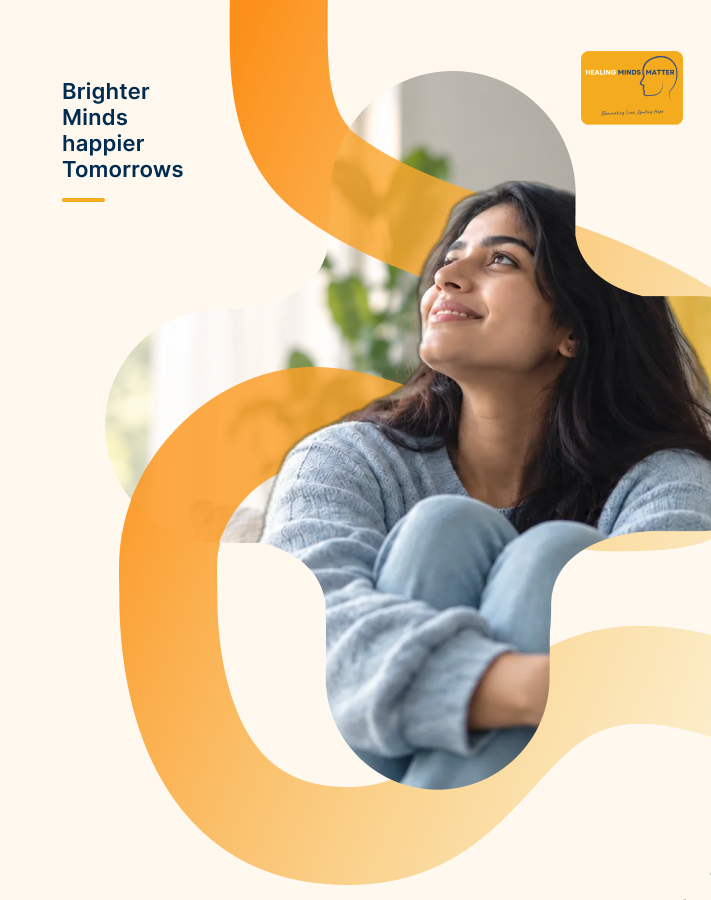
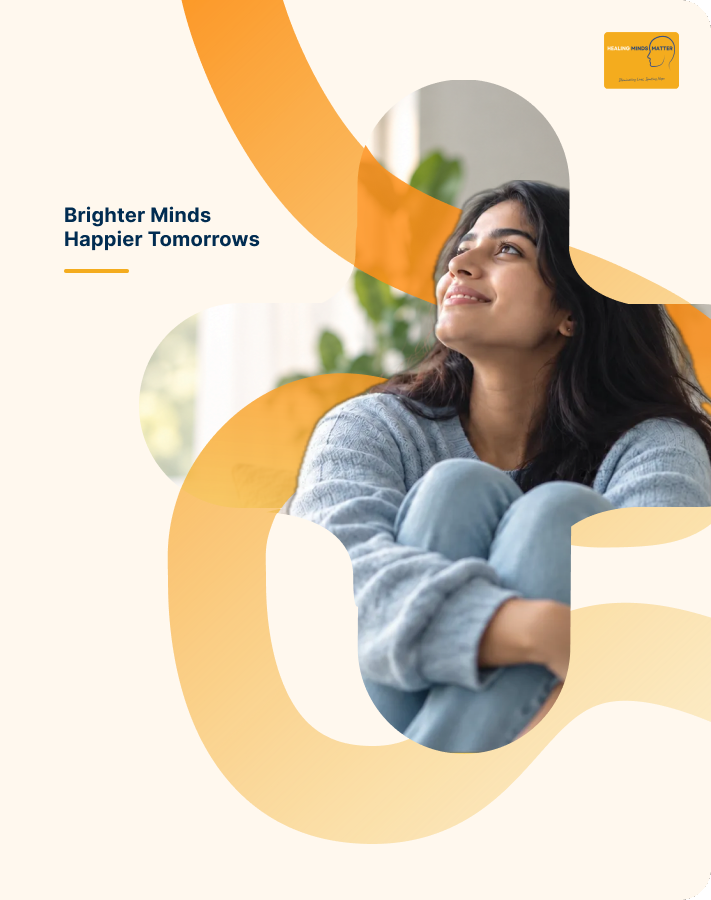
feat(auth): update login page design and improve responsiveness; validate club_id on gatekeeper creation

diff --git a/app/(auth)/login/login-form.tsx b/app/(auth)/login/login-form.tsx
@@ -1,12 +1,13 @@
 'use client'
 
-import { useActionState } from 'react'
+import { useActionState, useState } from 'react'
 import { useSearchParams } from 'next/navigation'
 import Link from 'next/link'
 import { loginAction } from '@/actions/auth'
 
 export function LoginForm() {
   const [state, formAction, isPending] = useActionState(loginAction, null)
+  const [showPassword, setShowPassword] = useState(false)
   const searchParams = useSearchParams()
   const resetSuccess = searchParams.get('reset') === 'success'
   const errorParam = searchParams.get('error')
@@ -20,11 +21,11 @@ export function LoginForm() {
 
   return (
     <div className="w-full font-[family-name:var(--font-inter)]">
-      <div className="flex flex-col gap-2 sm:gap-3">
-        <h1 className="text-[28px] font-extrabold leading-none tracking-[0.28px] text-[#012C51] sm:text-[32px] sm:tracking-[0.32px] lg:text-[38px] lg:tracking-[0.38px]">
+      <div className="flex flex-col gap-[7px]">
+        <h1 className="text-[28px] font-black leading-none tracking-[0.28px] text-[#012C51] sm:text-[34px] sm:tracking-[0.34px]">
           Sign in
         </h1>
-        <p className="text-[15px] leading-[1.4] tracking-[0.15px] text-[#67707F] sm:text-[17px] sm:tracking-[0.17px] lg:text-[20px] lg:leading-[1.56] lg:tracking-[0.2px]">
+        <p className="text-[15px] leading-[1.56] tracking-[0.15px] text-[#67707F] sm:text-[18px] sm:tracking-[0.18px]">
           For Super Admins and Champions.
         </p>
       </div>
@@ -54,71 +55,86 @@ export function LoginForm() {
         </div>
       )}
 
-      <form action={formAction} className="mt-6 flex flex-col gap-4 sm:mt-8 sm:gap-5 lg:mt-12 lg:gap-6">
-        <div className="flex flex-col gap-2">
-          <label htmlFor="email" className="text-[16px] tracking-[0.16px] text-[#0C1421]">
-            Email
-          </label>
-          <input
-            id="email"
-            name="email"
-            type="email"
-            autoComplete="email"
-            required
-            placeholder="you@healingmindsmatter.org"
-            className="h-12 w-full rounded-lg border border-[#D4D7E3] bg-[#F7FBFF] px-4 text-[16px] tracking-[0.16px] text-[#0C1421] outline-none transition placeholder:text-[#8897AD] focus:border-[#F4AC1E] focus:ring-2 focus:ring-[#F4AC1E]/20"
-          />
-        </div>
-
-        <div className="flex flex-col gap-2">
-          <label htmlFor="password" className="text-[16px] tracking-[0.16px] text-[#0C1421]">
-            Password
-          </label>
-          <input
-            id="password"
-            name="password"
-            type="password"
-            autoComplete="current-password"
-            required
-            placeholder="At least 8 characters"
-            className="h-12 w-full rounded-lg border border-[#D4D7E3] bg-[#F7FBFF] px-4 text-[16px] tracking-[0.16px] text-[#0C1421] outline-none transition placeholder:text-[#8897AD] focus:border-[#F4AC1E] focus:ring-2 focus:ring-[#F4AC1E]/20"
-          />
-        </div>
-
-        <div className="flex items-center justify-between">
-          <label className="inline-flex cursor-pointer items-center gap-[7px]">
-            <span className="relative inline-block size-[22px] shrink-0">
+      <form action={formAction} className="mt-8 flex flex-col gap-[60px] sm:mt-10">
+        <div className="flex flex-col gap-[9px]">
+          <div className="flex flex-col gap-[24px]">
+            <div className="flex flex-col gap-2">
+              <label htmlFor="email" className="text-[14px] tracking-[0.14px] text-[#0C1421]">
+                Email
+              </label>
               <input
-                type="checkbox"
-                name="keep_signed_in"
-                className="peer absolute inset-0 size-full cursor-pointer opacity-0"
+                id="email"
+                name="email"
+                type="email"
+                autoComplete="email"
+                required
+                placeholder="you@healingmindsmatter.org"
+                className="h-12 w-full rounded-lg border border-[#D4D7E3] bg-[#F7FBFF] px-4 text-[14px] tracking-[0.14px] text-[#0C1421] outline-none transition placeholder:text-[#8897AD] focus:border-[#F4AC1E] focus:ring-2 focus:ring-[#F4AC1E]/20"
               />
-              {/* eslint-disable-next-line @next/next/no-img-element */}
-              <img
-                src="/icons/checkbox-unchecked.svg"
-                alt=""
-                className="absolute inset-0 size-full peer-checked:opacity-0"
-              />
-              <span className="absolute inset-0 hidden items-center justify-center rounded-[3px] bg-[#F4AC1E] peer-checked:flex">
-                <svg viewBox="0 0 12 10" className="h-[9px] w-[11px]" fill="none" aria-hidden="true">
-                  <path d="M1 5L4.5 8.5L11 1" stroke="white" strokeWidth="2" strokeLinecap="round" strokeLinejoin="round" />
-                </svg>
+            </div>
+
+            <div className="flex flex-col gap-2">
+              <label htmlFor="password" className="text-[14px] tracking-[0.14px] text-[#0C1421]">
+                Password
+              </label>
+              <div className="relative">
+                <input
+                  id="password"
+                  name="password"
+                  type={showPassword ? 'text' : 'password'}
+                  autoComplete="current-password"
+                  required
+                  placeholder="At least 8 characters"
+                  className="h-12 w-full rounded-lg border border-[#D4D7E3] bg-[#F7FBFF] px-4 pr-11 text-[14px] tracking-[0.14px] text-[#0C1421] outline-none transition placeholder:text-[#8897AD] focus:border-[#F4AC1E] focus:ring-2 focus:ring-[#F4AC1E]/20"
+                />
+                <button
+                  type="button"
+                  onClick={() => setShowPassword(v => !v)}
+                  className="absolute right-3 top-1/2 -translate-y-1/2 text-[#8897AD] hover:text-[#67707F]"
+                  aria-label={showPassword ? 'Hide password' : 'Show password'}
+                >
+                  {/* eslint-disable-next-line @next/next/no-img-element */}
+                  <img src={showPassword ? '/icons/pw-eye.svg' : '/icons/pw-eye-off.svg'} alt="" className="h-4 w-4" />
+                </button>
+              </div>
+            </div>
+          </div>
+
+          <div className="flex items-center justify-between">
+            <label className="inline-flex cursor-pointer items-center gap-[7px]">
+              <span className="relative inline-block size-[18px] shrink-0">
+                <input
+                  type="checkbox"
+                  name="keep_signed_in"
+                  className="peer absolute inset-0 size-full cursor-pointer opacity-0"
+                />
+                {/* eslint-disable-next-line @next/next/no-img-element */}
+                <img
+                  src="/icons/checkbox-unchecked.svg"
+                  alt=""
+                  className="absolute inset-0 size-full peer-checked:opacity-0"
+                />
+                <span className="absolute inset-0 hidden items-center justify-center rounded-[3px] bg-[#F4AC1E] peer-checked:flex">
+                  <svg viewBox="0 0 12 10" className="h-[7px] w-[9px]" fill="none" aria-hidden="true">
+                    <path d="M1 5L4.5 8.5L11 1" stroke="white" strokeWidth="2" strokeLinecap="round" strokeLinejoin="round" />
+                  </svg>
+                </span>
               </span>
-            </span>
-            <span className="text-[16px] tracking-[0.16px] text-[#67707F]">Keep me signed in</span>
-          </label>
-          <Link
-            href="/forgot-password"
-            className="text-[16px] font-bold tracking-[0.16px] text-[#265BA2] hover:underline"
-          >
-            Forgot Password?
-          </Link>
+              <span className="text-[14px] tracking-[0.14px] text-[#67707F]">Keep me signed in</span>
+            </label>
+            <Link
+              href="/forgot-password"
+              className="text-[14px] font-bold tracking-[0.14px] text-[#265BA2] hover:underline"
+            >
+              Forgot Password?
+            </Link>
+          </div>
         </div>
 
         <button
           type="submit"
           disabled={isPending}
-          className="w-full rounded-lg bg-[#F4AC1E] py-3 text-[17px] font-semibold tracking-[0.17px] text-white transition hover:bg-[#e0991a] disabled:opacity-60 sm:py-3.5 sm:text-[18px] lg:py-4 lg:text-[20px] lg:tracking-[0.2px]"
+          className="w-full rounded-lg bg-[#F4AC1E] py-4 text-[16px] font-semibold tracking-[0.16px] text-white transition hover:bg-[#e0991a] disabled:opacity-60"
         >
           {isPending ? 'Signing in…' : 'Sign in'}
         </button>

diff --git a/actions/gatekeepers.ts b/actions/gatekeepers.ts
@@ -45,6 +45,26 @@ async function inviteAndCreateGatekeeper(params: {
     .maybeSingle()
   if (existing) return { error: 'An account with this email already exists.' }
 
+  // Validate club_id BEFORE creating the auth user / sending the invite
+  // email below — clubId reaches here as a raw string typed into a CSV
+  // cell (bulk upload) or read straight off form data (single create), so
+  // it's never guaranteed to be a real club. Without this check, a bad ID
+  // only surfaces as a raw Postgres FK-violation message on the later
+  // profiles insert, by which point the invite email (with a real temp
+  // password) has already been sent for an account that's about to be
+  // rolled back.
+  const { data: club, error: clubLookupError } = await admin
+    .from('clubs')
+    .select('name, is_active')
+    .eq('id', params.clubId)
+    .maybeSingle()
+  if (clubLookupError || !club) {
+    return { error: 'The selected club could not be found. Double-check the club_id and try again.' }
+  }
+  if (!club.is_active) {
+    return { error: `Club "${club.name}" is currently inactive. Reactivate it first or choose a different club.` }
+  }
+
   const { data: gkCode, error: codeError } = await admin.rpc('next_gatekeeper_code')
   if (codeError) return { error: codeError.message }
 
@@ -74,6 +94,12 @@ async function inviteAndCreateGatekeeper(params: {
 
   if (profileError) {
     await admin.auth.admin.deleteUser(newUserId)
+    // The club_id check above should catch this ahead of time, but fall
+    // back to a readable message instead of relaying a raw Postgres
+    // constraint name if some other FK slips through here in the future.
+    if (profileError.code === '23503') {
+      return { error: 'Could not save this gatekeeper — one of the referenced records (e.g. the club) no longer exists.' }
+    }
     return { error: profileError.message }
   }
 

diff --git a/components/auth/auth-illustration-panel.tsx b/components/auth/auth-illustration-panel.tsx
@@ -1,12 +1,22 @@
 export function AuthIllustrationPanel() {
   return (
-    <div className="relative hidden flex-1 overflow-hidden lg:block">
-      {/* eslint-disable-next-line @next/next/no-img-element */}
-      <img
-        src="/images/login-illustration.png"
-        alt=""
-        className="h-full w-full object-cover object-top"
-      />
+    <div className="hidden flex-1 items-stretch justify-center overflow-hidden lg:flex">
+      {/* The box is locked to the source image's own 711:900 aspect ratio and
+          capped by both max-w-full and h-full, so it always shrinks to fit
+          whichever dimension (available width or height) is tighter —
+          object-cover then has nothing left to crop, since the box and the
+          image always share the same ratio. This is what actually fixes the
+          "tagline/logo cropped at short viewport heights" bug: the old
+          plain flex-1 box let the container's aspect ratio drift arbitrarily
+          far from the image's, forcing object-cover to trim real content. */}
+      <div className="relative aspect-[711/900] h-full max-w-full">
+        {/* eslint-disable-next-line @next/next/no-img-element */}
+        <img
+          src="/images/login-illustration.png"
+          alt=""
+          className="h-full w-full object-cover"
+        />
+      </div>
     </div>
   )
 }

diff --git a/CLAUDE.md b/CLAUDE.md
@@ -1268,6 +1268,128 @@ action (not just UI appearance), and fully deleted (including cascaded
 `audit_logs` rows) at the end, reconfirmed back to a clean baseline via
 direct DB query.
 
+## Login page — rebuilt to updated Figma, responsiveness fix — 2026-09-17
+
+Figma's login frame (node `1:22`, section `1:21` "sign in", file
+`K1Csx2BjbSmP9NRSDtoEe2`) had been revised since the original 2026-09-16
+`feature/login-redesign` build. Checked for the decoy/duplicate-frame issue
+that's bitten this session before (mislabeled/copy-pasted modals found
+under Champions, Clubs, Gatekeepers, Announcements, Permissions) — a full
+metadata dump of the file's only page found exactly one "sign in" section
+and one "Login" frame, so node `1:22` is confirmed current and non-decoy.
+Its inner content nodes carry a mix of old (`1:xx`) and much newer
+(`130:xx`, `128:xx`) IDs, confirming this frame really was edited in place
+rather than being a stale cached reference.
+
+**What changed and what was rebuilt** (`app/(auth)/login/login-form.tsx`):
+labels/input text/checkbox/"Keep me signed in"/"Forgot Password?" all went
+from 16px to 14px; the heading went from `font-extrabold` responsive
+28→38px to a flat `font-black` 34px; the subtitle now matches at 18px; the
+submit button dropped its responsive up-scaling and now sits at a flat
+16px/16px-padding; the checkbox shrank 22px→18px; form-section gaps were
+restructured to match the new spec exactly (24px between the two fields,
+9px down to the checkbox/forgot row, 60px down to the submit button,
+replacing the old uniform gap). Figma also added a password
+show/hide-eye icon that didn't exist on the live page before — added,
+reusing the existing `/icons/pw-eye.svg` / `pw-eye-off.svg` pair already
+established by the Change Password modal rather than pulling in Figma's
+own `basil:eye-closed-outline` asset as a new icon file.
+**Deliberately not copied from Figma**: the heading text itself
+("Login"/"For Super Admin" in the current Figma copy) — left as "Sign
+in"/"For Super Admins and Champions.", since the Champion Web Portal
+means this is genuinely a shared two-role login page now, not a
+Super-Admin-only screen; Figma's copy predates that and was never
+accurate even before this update.
+
+**Illustration image** (`public/images/login-illustration.png`): re-cropped
+from a fresh Figma screenshot export of the whole `1:22` frame (the
+composition — tagline text, logo badge, photo/blob collage — changed
+enough between revisions that patching the old asset wasn't an option).
+The frame's own outer 30px corner radius bled through as small gray
+corner-artifact triangles on the flattened PNG export (Figma renders the
+canvas-background color outside a rounded frame's corners rather than
+transparency) — masked those out with a matching rounded-corner alpha mask
+before committing the new asset, rather than shipping the export as-is.
+
+**Responsiveness bug (the actual reason this needed more than a copy-paste
+image swap)**: `AuthIllustrationPanel` was a plain `flex-1` box holding the
+image at `object-cover object-top` — at any viewport where the panel's
+available aspect ratio drifted far enough from the image's native 711:900
+portrait ratio (mainly short-height laptop viewports), object-cover was
+forced to crop hard enough to cut the tagline text or the logo badge
+outright, since both sit near opposite edges of the image and there's no
+single `object-position` that protects both at once. Root-caused this by
+reproducing it live (a 1024×563 viewport clipped "Brighter" and "Happier"
+down to just "Minds"/"Tomorrows"). Fixed by locking the image's own
+container to `aspect-[711/900]` with `h-full max-w-full` — the box always
+shrinks to fit whichever of height/width is the binding constraint while
+keeping the exact image ratio, so `object-cover` has nothing left to crop;
+any leftover flex space just shows the panel's own matching `#FFF8EE`
+background, invisibly. Verified live across the achievable range in this
+session's browser-automation environment (viewports from roughly
+1280×533 up to 1800×1054, several short-height cases in between) — no
+cropping on either the form side or the image side at any of them.
+**Environment note for future sessions**: `resize_window` in this Chrome
+automation session only takes effect reliably on a tab's *first* call
+after creation/navigation — later resize calls on the same tab silently
+no-op (viewport stays pinned to whatever the first successful resize set).
+Work around it by opening a fresh tab per target size rather than
+resizing one tab repeatedly. This session's virtual display also hard-caps
+window bounds around 1800×1169, so a literal 2560×1440 "large monitor" test
+wasn't reachable — the ~1800×1054 case was used as the closest available
+proxy; the fix itself has no viewport-specific constants, so there's no
+reason to expect it to behave differently at true 2560+ widths, but this
+wasn't independently confirmed.
+
+## Bug fix — bad club_id on gatekeeper creation surfaced a raw Postgres error — 2026-09-17
+
+User-reported: bulk-CSV gatekeeper creation on a row with a bad `club_id`
+showed `insert or update on table "profiles" violates foreign key
+constraint "profiles_club_id_fkey"` directly in the per-row results table.
+Root cause: `inviteAndCreateGatekeeper` (`actions/gatekeepers.ts`, shared by
+both the single-gatekeeper form and the bulk CSV path) never validated
+`club_id` before using it — the bulk path in particular takes it as a raw
+CSV cell, typed/pasted by whoever built the file, with no dropdown to
+constrain it. A bad value only ever surfaced when the final `profiles`
+insert hit the FK constraint, and the raw Postgres message was relayed to
+the UI as-is (`error: profileError.message`).
+
+**Worse than just an ugly message**: `createInvitedUser()` — which creates
+the real auth user *and sends the temp-password invite email* — runs
+*before* the `profiles` insert. So on this failure path, a real email with
+a real temporary password had already been sent to the row's email address
+before the insert failed and the auth user got rolled back
+(`admin.auth.admin.deleteUser`) — the recipient got working-looking
+credentials for an account that no longer exists by the time they read the
+email.
+
+**Fix**: added a `clubs` lookup (`select name, is_active … eq('id',
+clubId)`) immediately after the existing-email check, before
+`next_gatekeeper_code()` or `createInvitedUser()` run at all. Covers both
+failure shapes verified live against the DB — a well-formed but
+non-existent UUID (empty result) and a malformed one, e.g. garbage CSV text
+(a `22P02 invalid input syntax for type uuid` from Postgres) — both now
+return `"The selected club could not be found. Double-check the club_id
+and try again."` (or an inactive-club-specific message) before any auth
+user is created or email sent. Also added a `profileError.code === '23503'`
+fallback on the later insert itself, translating any FK violation that
+might still slip through into a readable message instead of the raw
+constraint text, as a backstop.
+**Not changed**: `updateGatekeeperAction`'s `club_id` write — it comes from
+a `<select>` dropdown (not free-typed CSV) and goes through the
+RLS-enforced authenticated client rather than the service-role admin
+client, so the same class of bad-input risk doesn't apply there the same
+way; left as-is rather than fixing something not actually reported broken.
+
+**On the "still got a 200 response" observation from the same report**:
+expected, not a bug — this is the exact same Next.js Server Actions
+behavior already documented under the Epic 1 2026-09-14 note ("Next.js
+Server Actions always return 200 at the transport layer... this is
+intentional Next.js behavior"). The real error already was being caught
+and shown correctly (that's why the raw Postgres message was visible in
+the per-row results at all) — the 200 in the network tab was never a sign
+the error was missed.
+
 ### Not started yet
 - Everything on the Gatekeeper mobile app — BLOCKED until Gatekeeper user
   stories exist, and until the web app's core features are further along.
